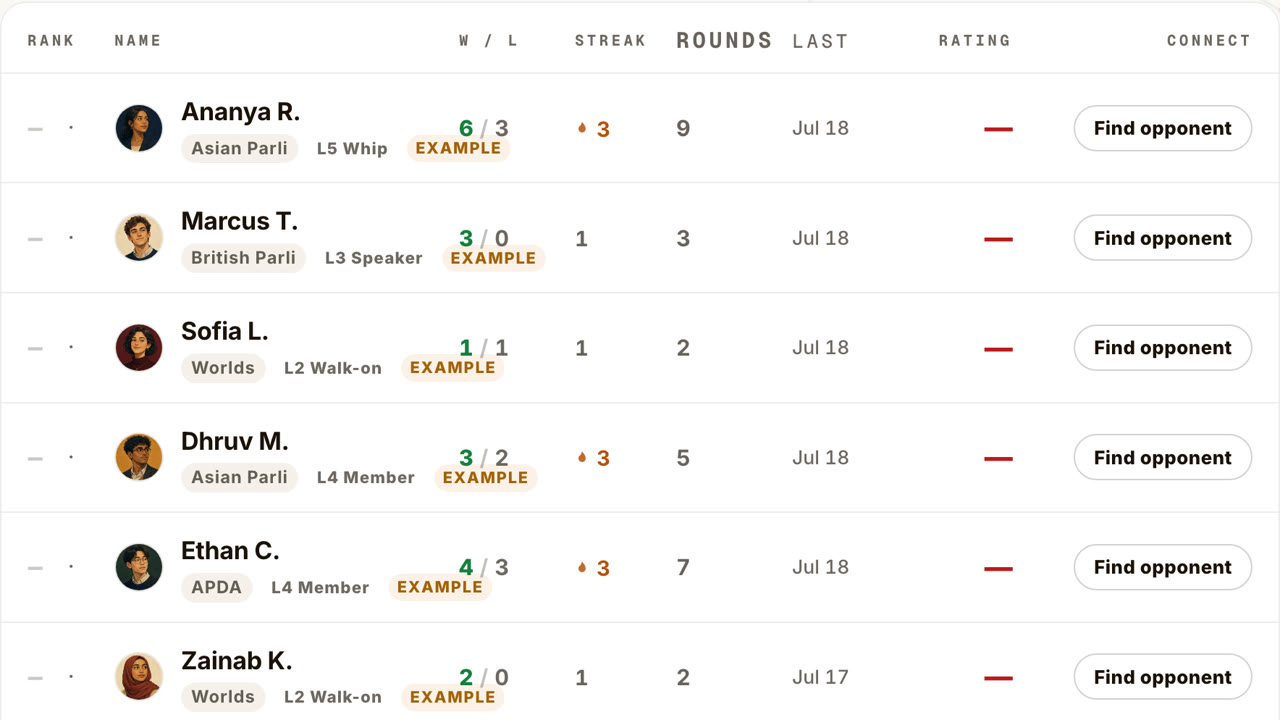
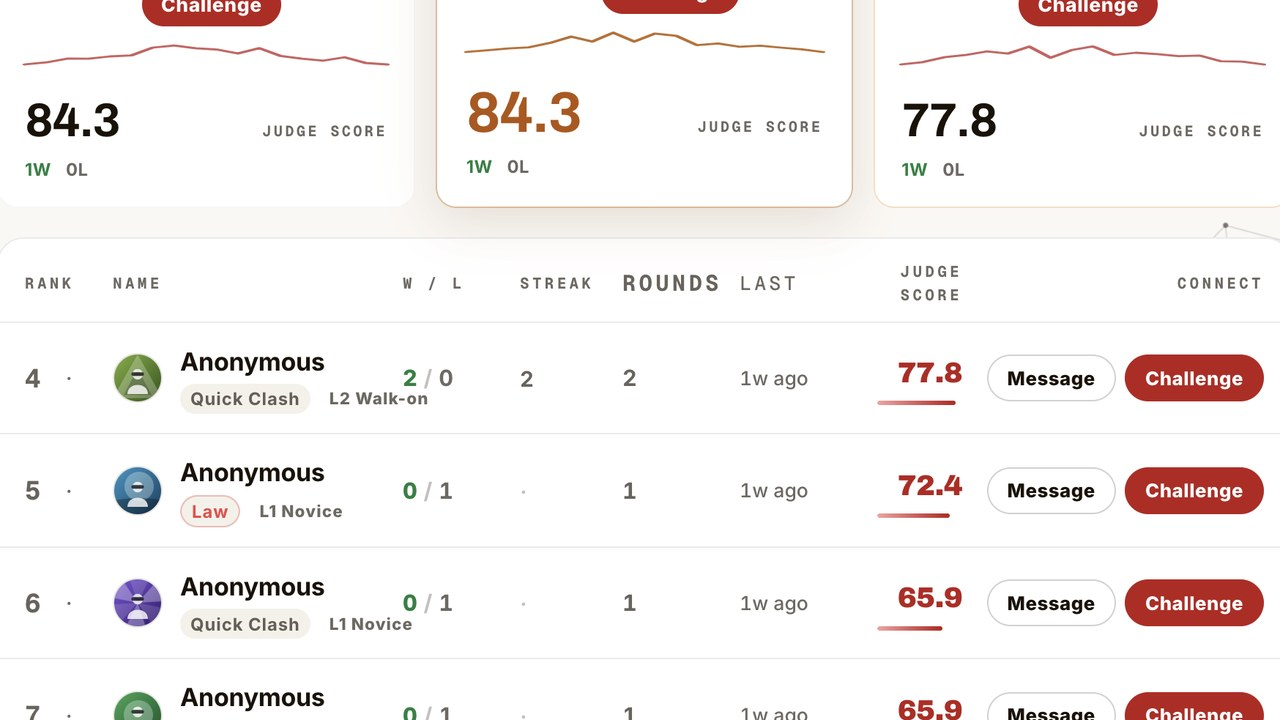
landing(quick cards): the leaderboard tile shows the real board, not the example rows
The tile still carried the July seed rows (Ananya R., Marcus T., Zainab K.)
under a RATING column that no longer exists and a "Find opponent" button the
board replaced with Message + Challenge. A visitor clicking through landed on
a page that looked nothing like the picture that sold it.

Replaced with a crop of the live /leaderboard: judge scores on the spotlight
cards, then real ranked rows with the Message/Challenge pair. Same 1280x720 the
16:9 tile expects, so no CSS moves.

CACHE_NAME bumped by hand: the pre-commit hook skips image-only commits, and
this replaces bytes at a URL the service worker serves cache-first.

diff --git a/app/sw.js b/app/sw.js
@@ -6,7 +6,7 @@
 
 
 
-const CACHE_NAME = 'debateos-v2932';
+const CACHE_NAME = 'debateos-v2933';
 
 
 

diff --git a/sw.js b/sw.js
@@ -6,7 +6,7 @@
 
 
 
-const CACHE_NAME = 'debateos-v2932';
+const CACHE_NAME = 'debateos-v2933';
 
 
 
